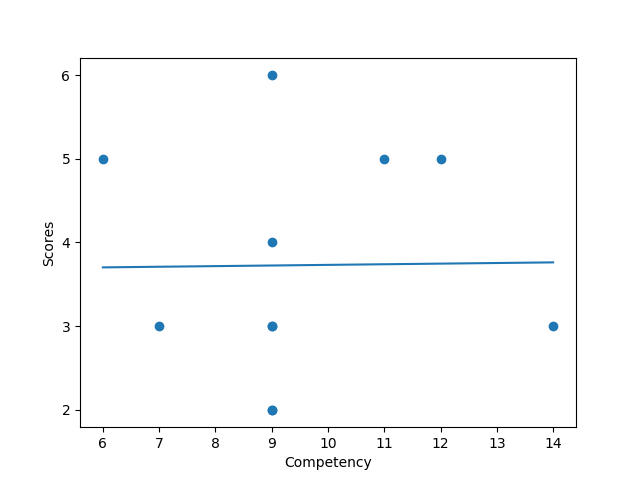
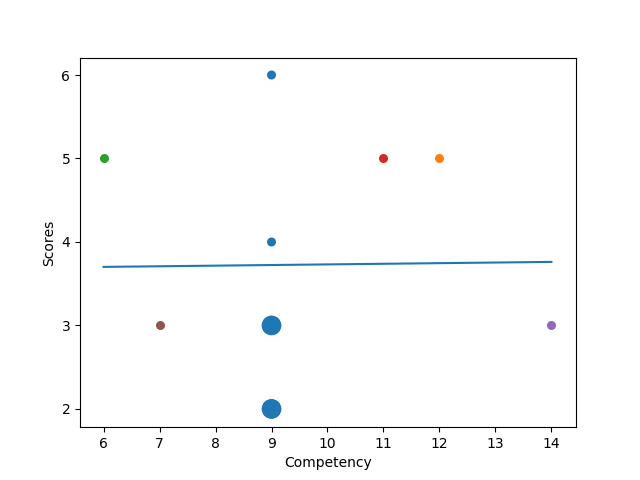
more words

diff --git a/diss_doc/doc/sections/results.tex b/diss_doc/doc/sections/results.tex
@@ -38,14 +38,20 @@ Work stealing is an established parallel technique, in which threads work on chu
 
 Unfortunately, a dynamic schedule will always do poorly when the workload is evenly distributed amongst threads, especially compared to static schedules. The defualt OpenMP parallalel for schedule is a static one, which evenly splits the work between threads~\cite{OpenMPSpec5}. The effect of this schedule is that data is more likely to work on data which it has initilised, which is likely to be within the same CC-NUMA region, and therefore quicker to access. In comparison, the work which threads will do in a work stealing schedule is non deterministic, and may require to be fetched from further away, at greater cost.
 
-\section{Sparse Matrix}\label{sec:res-sparse}
-\section{K-means}
+Although the results for Babel Stream do show that in this particular circumstance, OpenMP does have high performance, it does not necessarily follow that the static schedule will always be best for HPC. To investigate this further, I will now examine the SpMV results.
+\section{Sparse Matrix Vector Multiplicationmatplotlib scatter }\label{sec:res-sparse}
+\section{K-means clustering}
 \section{Questionnaire}
-The results show zero correlation between competency and score. This suggests that it is difficult to predict how easy a HPC programmer will understand Rust. Figure~\ref{fig:questions}
+Figure~\ref{fig:questions} presents the collected data from the questionnaire. Each small dot represents one answer, and a larger dot represents two. Eleven responses were collected in total.
+These results show zero correlation between competency and score. This suggests that it is difficult to predict how easy a HPC programmer will understand Rust. 
 
 \begin{figure}[h]
 \centering
 \includegraphics[width=.8\linewidth]{figs/questions/scatter.png}
 \caption{Questionnaire --- Score against Competency}\label{fig:questions}
 \end{figure}
+
+However, as these such little data was collected in this circumstance, it would be unreasonable to claim that this study contains any decisive information. The study would need to be carried out a second time, with a much larger group of participants.
+
+Interesting highlights from the data 
 \todo{include data? Didn't say I would}

diff --git a/questionnaire/results/parse.py b/questionnaire/results/parse.py
@@ -5,20 +5,14 @@ import matplotlib.pyplot as plt
 import scipy.stats as stats
 import sys
 
-def normal(scores):
-    scores.sort()
-    s_mean = np.mean(scores)
-    s_std = np.std(scores)
-    pdf = stats.norm.pdf(scores, s_mean, s_std)
-    plt.plot(scores, pdf, '-o')
-    plt.hist(scores, normed=True)
-    plt.show()
-
-def scatter(scores, competency):
+def scatter(d, comps, scores):
     fig, ax = plt.subplots()
-    ax.scatter(competency, scores)
-    ax.plot(np.unique(competency),
-             np.poly1d(np.polyfit(competency, scores,1))(np.unique(competency)))
+    for xe, ye in d.items():
+        xAx = [xe] * len(ye)
+        sizes = [ye.count(num)**2.5 * 30 for num in ye]
+        ax.scatter(xAx, ye, s=sizes)
+    ax.plot(np.unique(comps),
+             np.poly1d(np.polyfit(comps, scores,1))(np.unique(comps)))
     ax.set(xlabel="Competency", ylabel="Scores")
     ax.set_yticks([2,3,4,5,6])
     fig.savefig('scatter.png')
@@ -28,16 +22,22 @@ if __name__ == '__main__':
         print("Please use one file as the argument for this program")
 
     else:
-        scores = []; competency = []
         print("Parsing",sys.argv[1])
+        d = {}
+        scores = []
+        comps = []
         with open(sys.argv[1]) as csvfile:
             reader = csv.reader(csvfile)
             next(reader)
+            # Dictionary is d[competency] = scores
             for row in reader:
                 scores += [int(row[0])]
-                competency += [int(row[1])]
-        print(scores)
-        print(competency)
-        print("Generating normal distribution")
-        #normal(scores)
-        scatter(scores, competency)
+                comps += [int(row[1])]
+                score = [int(row[0])]
+                competency = int(row[1])
+                if competency in d:
+                    d[competency] += score
+                else:
+                    d[competency] = score
+        print("Generating scatter")
+        scatter(d, comps, scores)

diff --git a/diss_doc/doc/sections/methodology.tex b/diss_doc/doc/sections/methodology.tex
@@ -462,6 +462,8 @@ The Questionnaire was formed of seven multiple choice questions, designed to tes
 An eighth question was also given, which asked the participant how skilled they were at various programming languages.
 To minimise the factors of impostor syndrome~\cite{langford1993} and the Dunning-Kruger effect~\cite{kruger1999} on this question, (which were hopefully minimal due to the anonymous nature of the questionnaire), each skill level was given concrete examples of what they corresponded to. For example, basic knowledge was the ability to `write loops, [and] conditionals', whilst advanced knowledge was the ability to `effectively use the more esoteric features of this language'. Unfortunately, self assessment will never be as good as independent assessment, but without the ability to ask for a large amount of time from my participants, it had to suffice.
 
+This last question was used to generate a competency score, with different levels of reported competency receiving a different score. Basic competency in a programming language receives a score of one, comprehensive two, and advanced three. The sum of all these scores becomes that participants competency score.
+
 The questionnaire was left out in the lunch area at 12am. Staff and academics were notified of its presence via email at 11:30am and questionnaires were collected at 5pm. I watched the first few questionnaires be completed, but did not intervene in the process. I then returned to my desk to make sure I did not effect the data collection by being there. As all the questionnaires were anonymous, and the people answering them all had a limited amount of time and low investment in the results, people cheating on the questionnaire was not considered a risk. 
 
 A full copy of the questionnaire can be found in Appendix~\ref{app:quest}.
